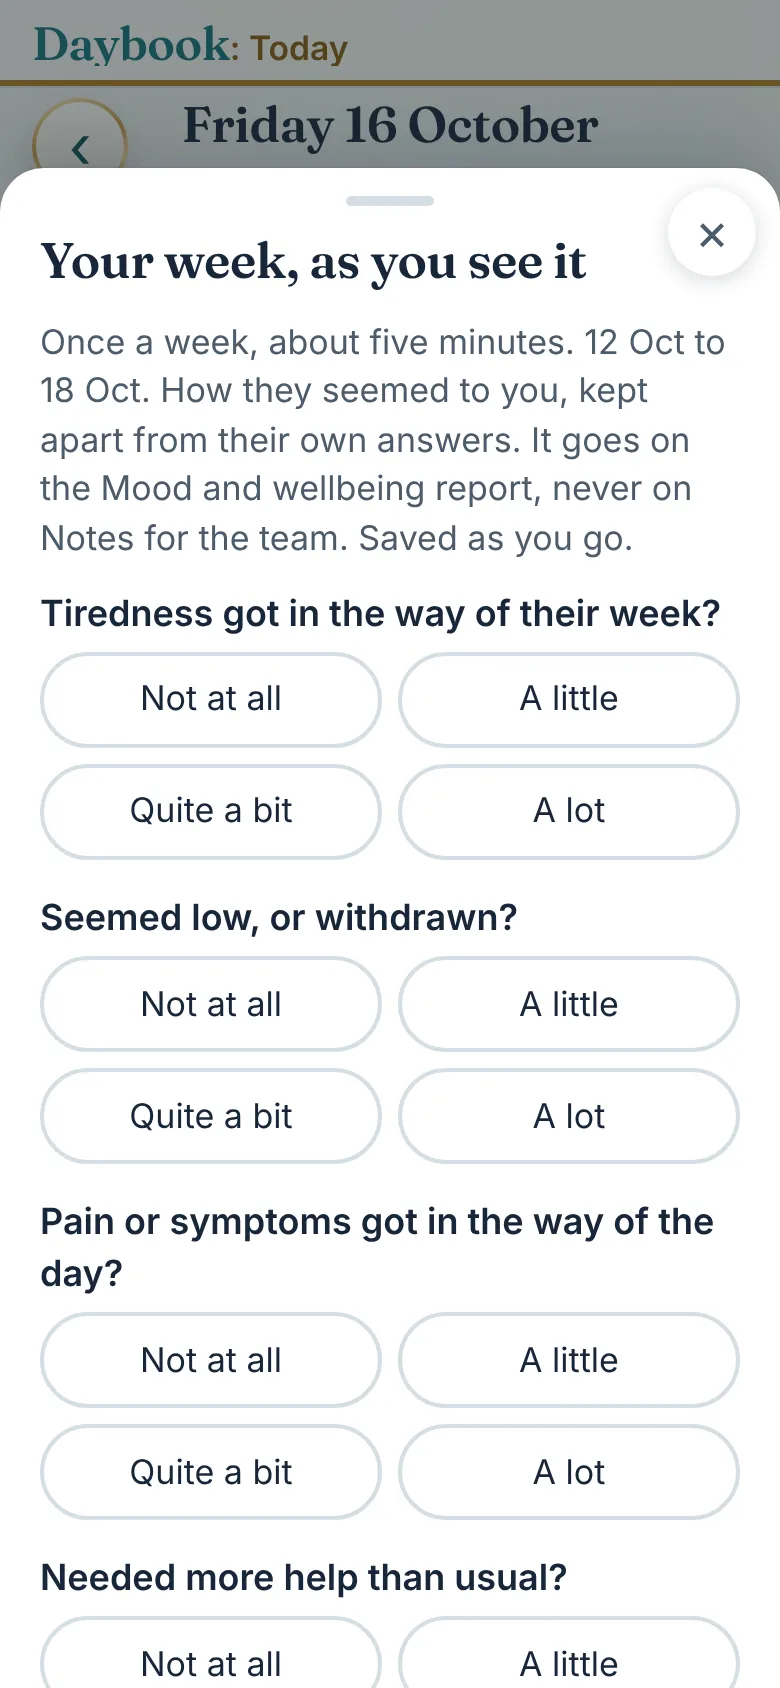
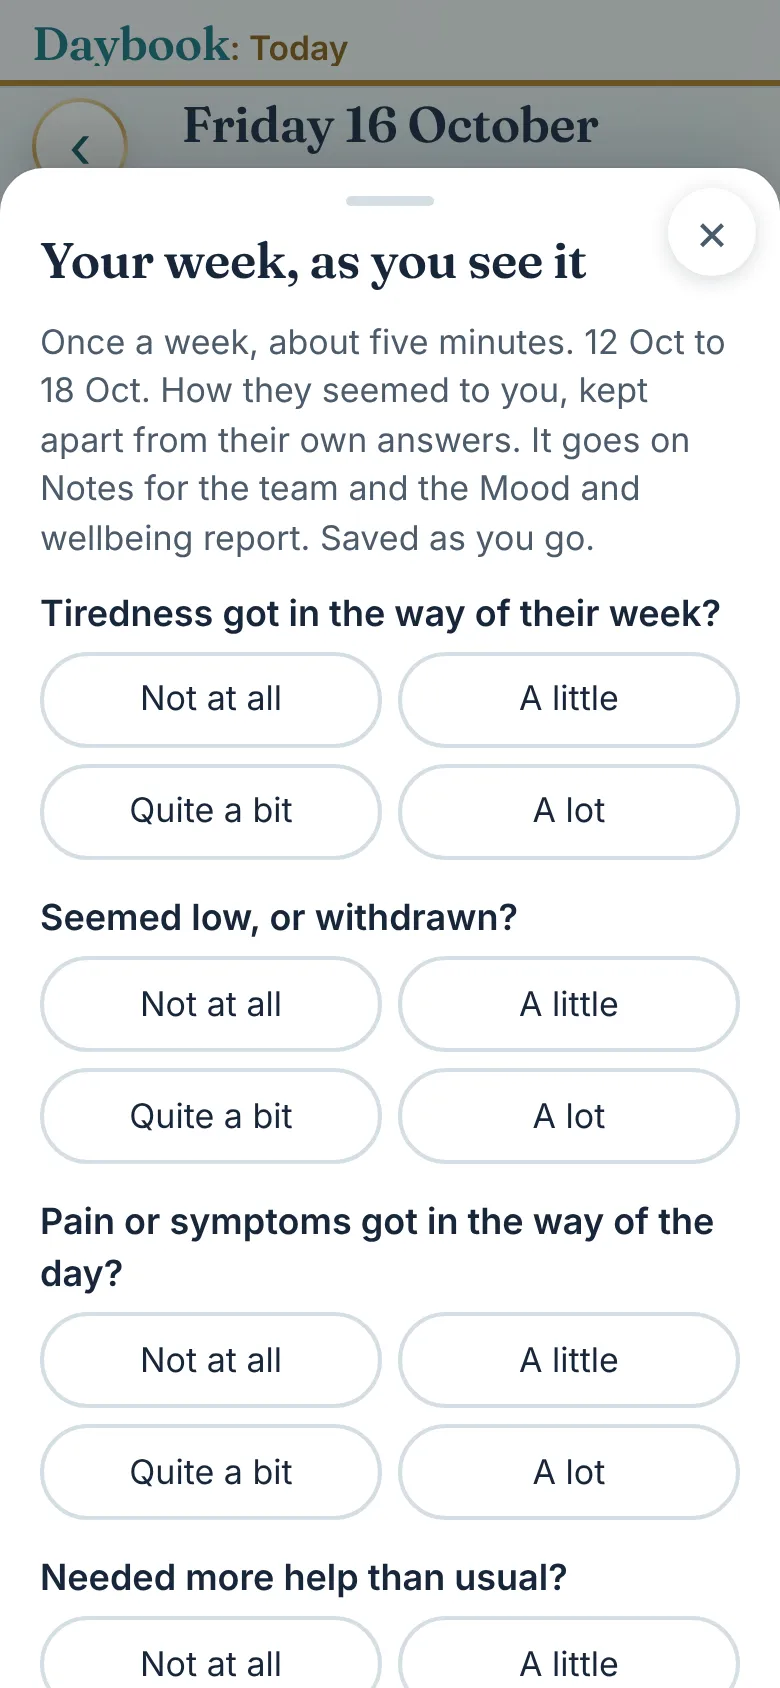
Guide: the carer's Your week frame recopied from the app's v376 (it goes on Notes for the team)
Claude-Session: https://claude.ai/code/session_019YEsmZ6a1WvgEnGnwzVsHJ

Changed region(s): [[0.0615, 0.2773, 0.8923, 0.3389]]

diff --git a/js/site.js b/js/site.js
@@ -115,7 +115,7 @@
       if (!reduced && auto !== false) play(); else stop();
     };
     var load = function () {
-      return fetch('guide/guide.json?v=33').then(function (r) { if (!r.ok) throw new Error('guide ' + r.status); return r.json(); });
+      return fetch('guide/guide.json?v=34').then(function (r) { if (!r.ok) throw new Error('guide ' + r.status); return r.json(); });
     };
     load().then(function (d) {
       G.data = d;

diff --git a/privacy.html b/privacy.html
@@ -113,6 +113,6 @@
       <p>Daybook is not a medical device and gives no medical advice. In an emergency call 999; for urgent advice call 111.</p>
     </div>
   </footer>
-  <script src="js/site.js?v=35" defer></script>
+  <script src="js/site.js?v=36" defer></script>
 </body>
 </html>

diff --git a/support.html b/support.html
@@ -76,6 +76,6 @@
       <p>Daybook is not a medical device and gives no medical advice. In an emergency call 999; for urgent advice call 111.</p>
     </div>
   </footer>
-  <script src="js/site.js?v=35" defer></script>
+  <script src="js/site.js?v=36" defer></script>
 </body>
 </html>

diff --git a/team.html b/team.html
@@ -88,6 +88,6 @@
       <p>Daybook is not a medical device and gives no medical advice. In an emergency call 999; for urgent advice call 111.</p>
     </div>
   </footer>
-  <script src="js/site.js?v=35" defer></script>
+  <script src="js/site.js?v=36" defer></script>
 </body>
 </html>

diff --git a/terms.html b/terms.html
@@ -84,6 +84,6 @@
       <p>Daybook is not a medical device and gives no medical advice. In an emergency call 999; for urgent advice call 111.</p>
     </div>
   </footer>
-  <script src="js/site.js?v=35" defer></script>
+  <script src="js/site.js?v=36" defer></script>
 </body>
 </html>

diff --git a/beta.html b/beta.html
@@ -156,6 +156,6 @@
     </div>
   </footer>
 
-  <script src="js/site.js?v=35" defer></script>
+  <script src="js/site.js?v=36" defer></script>
 </body>
 </html>

diff --git a/index.html b/index.html
@@ -479,6 +479,6 @@
     </div>
   </footer>
 
-  <script src="js/site.js?v=35" defer></script>
+  <script src="js/site.js?v=36" defer></script>
 </body>
 </html>
